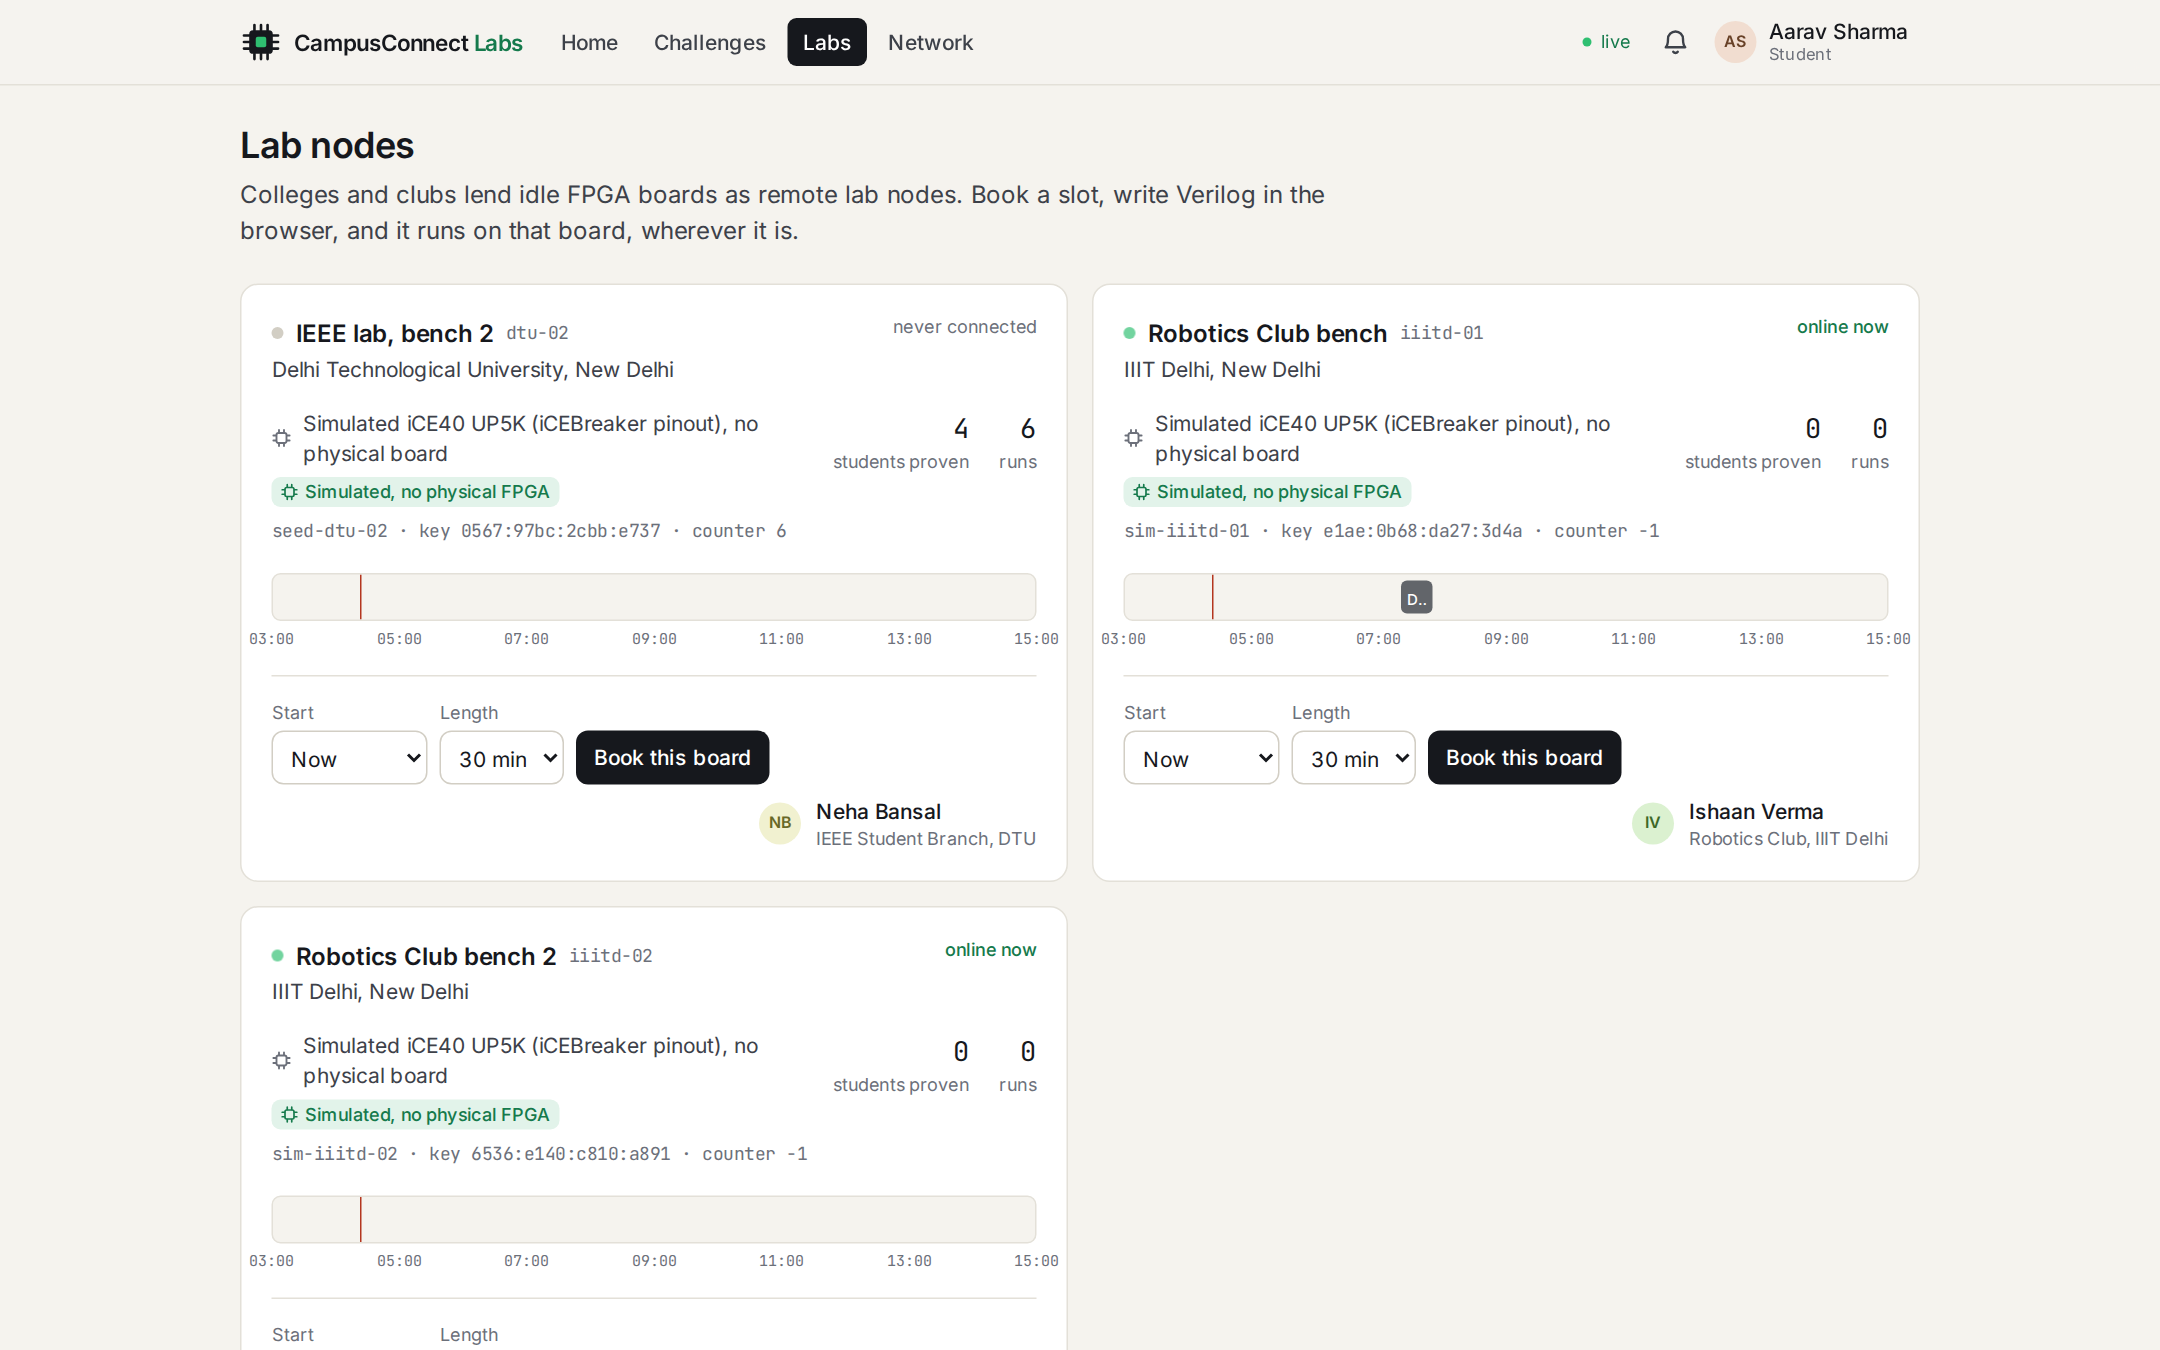
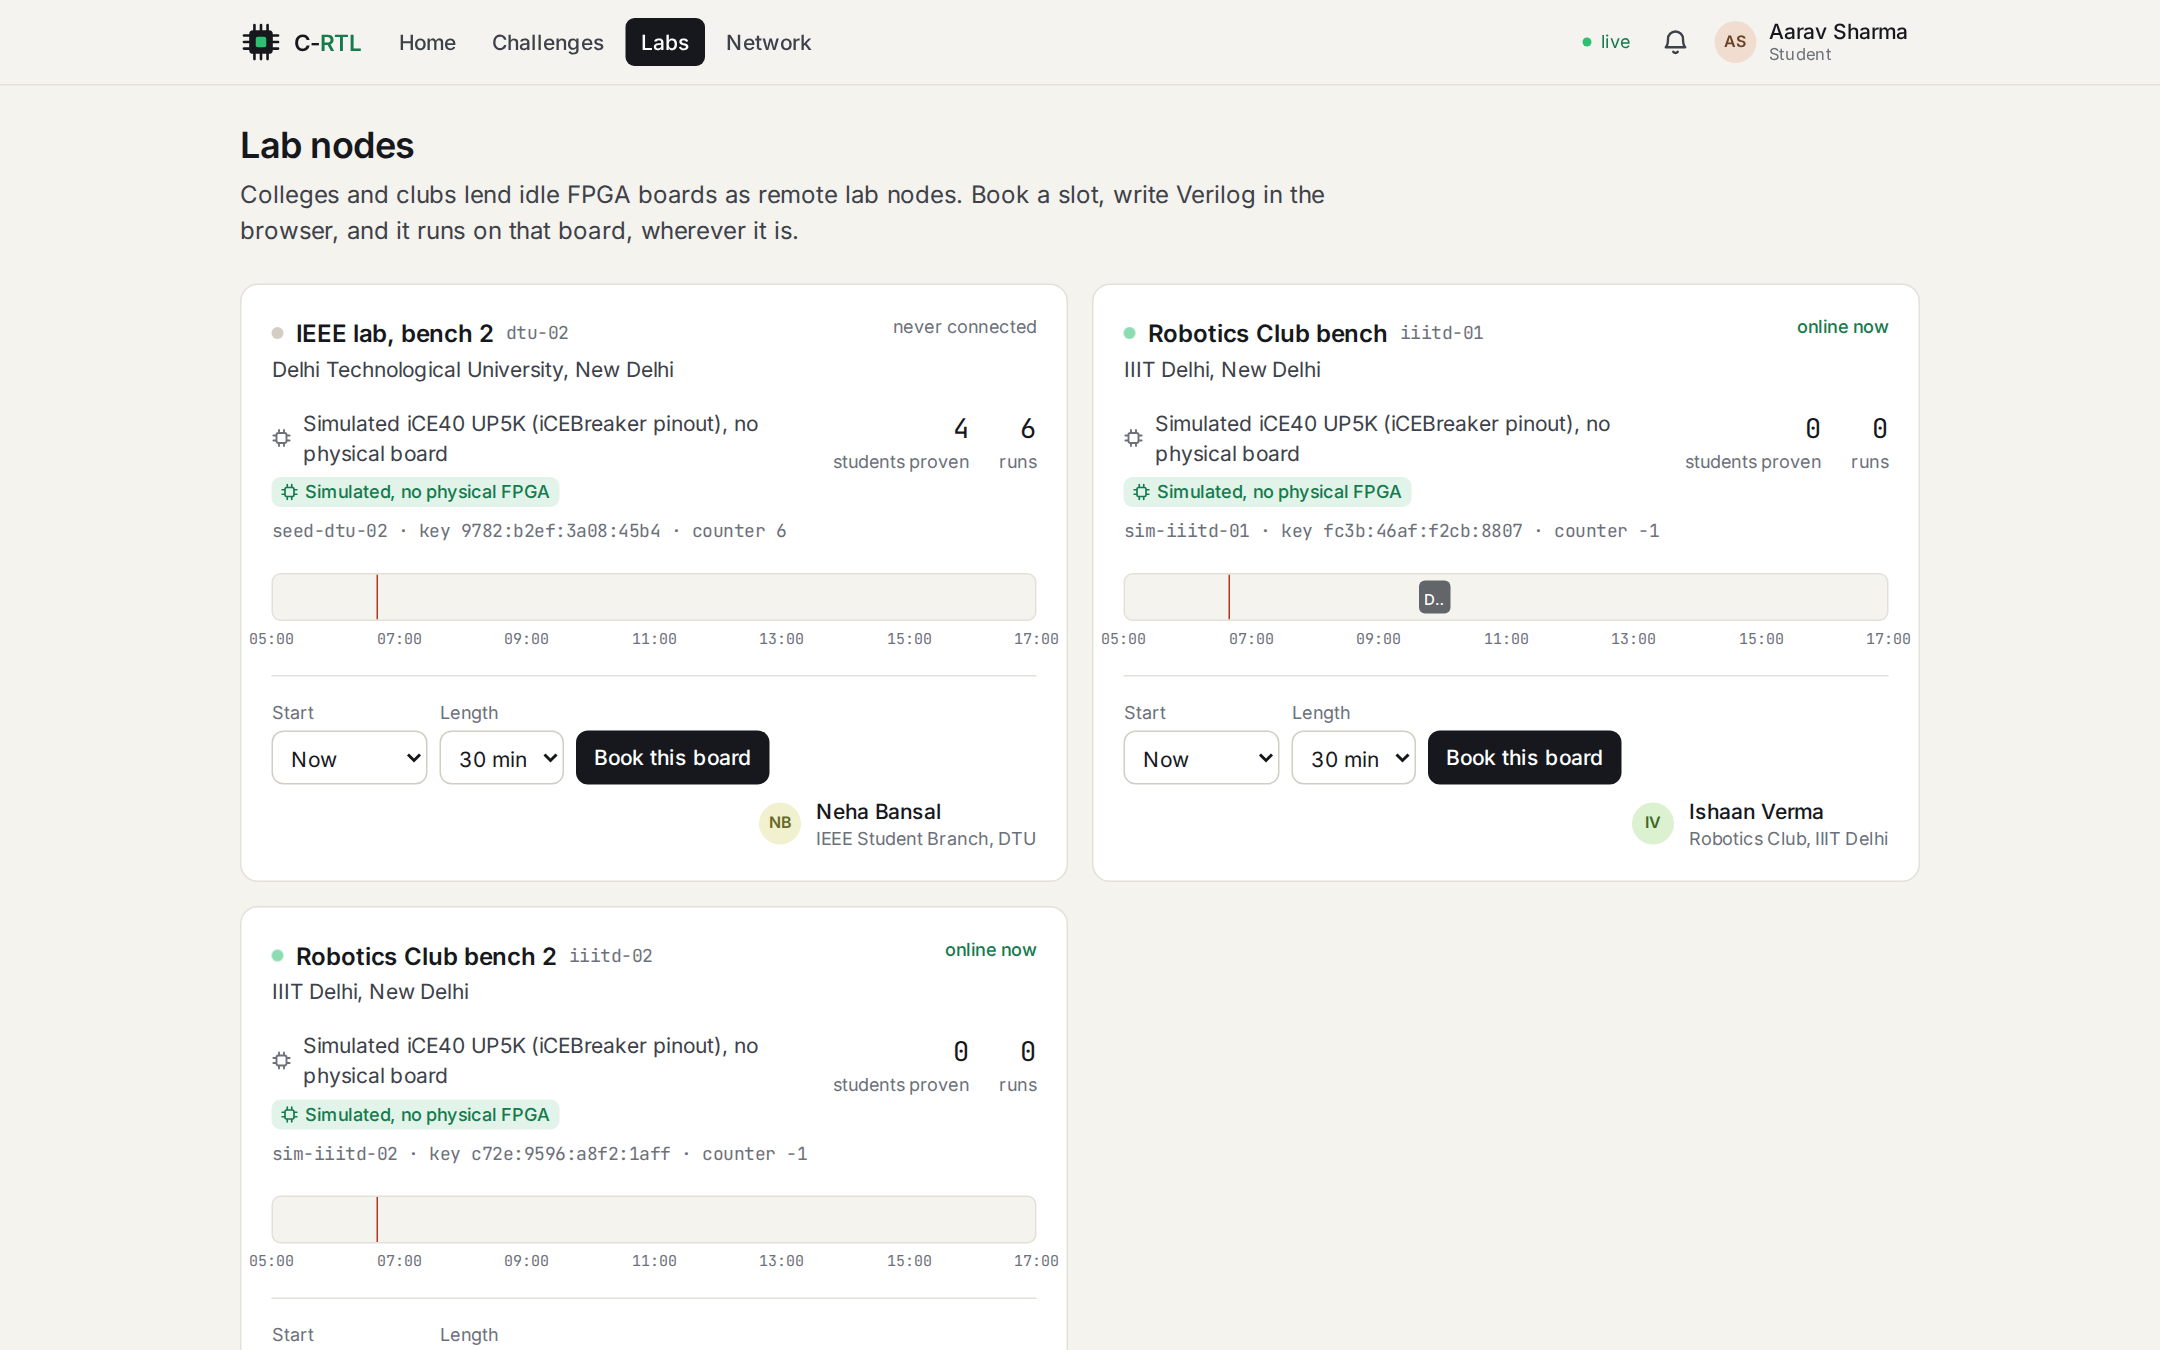
README: rewritten for C-RTL, with fresh screenshots of every stage
The story is the same one attempt from Aarav's skill gap to Meera's
referral, now told under the new name. RTL is explained along with the
other terms, so the name makes sense to someone who has never touched an
FPGA, and the landing page opens the README. Every screenshot was taken
again on the redeployed C-RTL demo.

Claude-Session: https://claude.ai/code/session_0195j1iygwPWiu3DrF1q1Au9

diff --git a/README.md b/README.md
@@ -3,39 +3,43 @@
 **HackShift 2026 · Theme 1: Alumni Network & Professional Connections**
 *Building a network, not a directory.*
 
-A professional network where you connect with people by **proving** a skill, not by listing it. An alum posts a hardware challenge with an offer ("pass this and I'll refer you"). A student whose college has no lab borrows a board from another campus over the internet and passes it. The result comes back signed, like a certificate nobody can forge, and that certificate becomes the connection between the student, the alum, and the club that lent the board.
+C-RTL is a professional network where you connect with people by **proving** a skill, not by listing it. An alum posts a hardware challenge with an offer, like "pass this and I'll refer you". A student whose college has no lab borrows a board from another campus over the internet and passes the challenge. The result comes back signed, like a certificate nobody can forge, and that certificate becomes the connection between the student, the alum and the club that lent the board.
 
-## The problem, for people who have never touched an FPGA
+![The C-RTL landing page: a directory entry with typed skills struck through, next to a connection signed by an examiner](docs/screenshots/01-landing.png)
 
-- Chip designers describe circuits in a language called **Verilog**. It isn't a program that runs step by step; it describes wires and logic gates that all work at the same time.
+## The idea in plain words
+
+You don't need to know anything about chips to follow this.
+
+- **RTL** is what chip designers call the circuit descriptions they write, usually in a language called **Verilog**. It isn't a program that runs step by step. It describes wires and logic gates that all work at the same time.
 - An **FPGA** is a chip that can rewire itself into whatever circuit you described. You load it with a file called a **bitstream**. Engineers use FPGAs to try a design before a factory makes it, and students use them to learn hardware.
-- Code that looks right often fails on a real chip, because real circuits have timing. So hiring managers ask one question: *did you get it working on a board?*
+- Circuit code that looks right often fails on a real chip, because real circuits have timing. So hiring managers ask one question: *did you get it working on a board?*
 - Boards and lab time are concentrated in a few colleges. A student at a college with no lab can't answer that question, so "Verilog" on their résumé is just a word, and every profile looks the same.
 
-**Our fix:** clubs that have boards lend their idle ones as remote **lab nodes**. Next to each board sits a small, separate tester called the **examiner** (an ESP32 microcontroller). It talks to the student's circuit, measures what comes back, and signs the result with a key that never leaves it, like an invigilator signing an answer sheet. The platform only believes signed results, and only signed results create badges and connections.
+**What C-RTL does:** clubs that own boards lend their idle ones as remote **lab nodes**. Next to each board sits a small, separate tester called the **examiner** (an ESP32 microcontroller). It talks to the student's circuit, measures what comes back, and signs the result with a key that never leaves it, like an invigilator signing an answer sheet. The platform only believes signed results, and only signed results create badges and connections.
 
 ```
- student's browser ──Verilog──▶ platform ──job──▶ lab node (a club's laptop + board)
-                                   ▲                  │ builds the circuit, loads it onto the board
-                                   │                  ▼
-            checks the signature ◀─┴── signed result ── examiner (tests the circuit, signs)
+ student's browser ──Verilog──▶ C-RTL platform ──job──▶ lab node (a club's laptop + board)
+                                      ▲                    │ builds the circuit, loads it onto the board
+                                      │                    ▼
+               checks the signature ◀─┴── signed result ── examiner (tests the circuit, signs)
 ```
 
-## The story, stage by stage
+## One attempt, stage by stage
 
-Three people: **Aarav**, a 3rd-year student at a college with no FPGA lab. **Meera**, an alum who now works at a chip company and is hiring. **Ishaan**, who runs the Robotics Club at IIIT Delhi and lends its board.
+There are three people in the story. **Aarav** is a 3rd-year student at a college with no FPGA lab. **Meera** is an alum who now works at a chip company and is hiring. **Ishaan** runs the Robotics Club at IIIT Delhi and lends its board.
 
-These are real screenshots of one run, taken by [a headless browser](tools/readme-shots.mjs) on our deployed demo.
+Every screenshot below comes from one real run on our deployed demo, taken by [a headless browser](tools/readme-shots.mjs).
 
 ### 1. Aarav sees his gap
 
-Aarav wants Meera's *FPGA Design Intern* role. His profile says Verilog, FPGA and Embedded C, but they're struck through: nobody has tested them, so they count for nothing. He has 0 of the 6 skills the role needs. The page suggests challenges that close the gap, and the top one is Meera's, with her offer attached.
+Aarav wants Meera's *FPGA Design Intern* role. His profile says Verilog, FPGA and Embedded C, but those are struck through: nobody has tested them, so they count for nothing. He has 0 of the 6 skills the role needs. The page suggests challenges that close the gap, and the top one is Meera's, with her offer attached.
 
 ![Aarav's home page: 0 of 6 skills proven, his typed claims struck through, and challenges that close the gap](docs/screenshots/02-student-gap.png)
 
 ### 2. Meera's challenge comes with an offer
 
-*"Make this UART work on a real FPGA and I'll refer you to our FPGA prototyping team."* A **UART** is the simplest way two chips talk: bits sent one after another down a wire at an agreed speed (115,200 per second here). The test: the examiner sends a random code made up for this attempt only (a **nonce**), and the circuit must echo it back at the right speed. A fresh code every time means you can't replay someone else's answer.
+*"Make this UART work on a real FPGA and I'll refer you to our FPGA prototyping team."* A **UART** is the simplest way for two chips to talk: bits sent one after another down a wire at an agreed speed, here 115,200 bits a second. The test: the examiner sends a random code made up for this attempt only (a **nonce**), and the circuit has to echo it back at the right speed. A fresh code every time means nobody can replay someone else's answer.
 
 ![The UART challenge: Meera's offer, the spec, and how the examiner tests it](docs/screenshots/03-challenge.png)
 
@@ -43,33 +47,51 @@ Aarav wants Meera's *FPGA Design Intern* role. His profile says Verilog, FPGA an
 
 Clubs list the boards they lend and when they're free. Aarav picks the Robotics Club bench at IIIT Delhi.
 
-![Labs: boards lent by clubs at other colleges, two online now](docs/screenshots/04-labs.png)
+![Lab nodes: boards lent by clubs at other colleges, two of them online now](docs/screenshots/04-labs.png)
 
 ### 4. He books a slot and writes the circuit
 
-He books 30 minutes on the board, writes his Verilog in the browser, and presses **Build & simulate**. The bar on the right tracks the six steps the attempt goes through.
+He books 30 minutes on the board, writes his Verilog in the browser and presses **Build & simulate**. The bar on the right tracks the six steps an attempt goes through.
 
 ![The editor: Verilog on the left, a booked slot and the Build button on the right](docs/screenshots/05-booked.png)
 
 ### 5. The lab node builds it and the examiner tests it
 
-This is the lab node's own dashboard, on the club's machine. In plain words, left to right: check the code, turn it into logic gates (**yosys**), lay those gates out on the chip and wire them (**nextpnr**), pack the result into the bitstream a real board would be loaded with (**icepack**). We have no physical board, so the node turns that same bitstream back into a circuit (**icebox_vlog**) and runs it in a simulator (**iverilog**, **vvp**). The examiner sends the nonce, measures the reply (115,385 bits per second; it must be within 3% of 115,200), and signs **PASS**. The whole attempt takes about 15 to 25 seconds on our demo server.
+This is the lab node's own dashboard, on the club's machine. Each box is a step, in plain words:
 
-![Lab node dashboard: every build stage with its time, the tool output, and the signed PASS](docs/screenshots/10-node-done.png)
+1. Check the code for obvious mistakes.
+2. Turn it into logic gates (**yosys**).
+3. Place those gates on the chip and wire them up (**nextpnr**).
+4. Pack the result into the bitstream a real board would be loaded with (**icepack**).
+5. We have no physical board, so turn that same bitstream back into a circuit (**icebox_vlog**) and run it in a simulator (**iverilog**, **vvp**).
+6. The examiner sends the nonce, measures the reply (115,385 bits a second; it has to be within 3% of 115,200) and signs **PASS**.
+
+The whole attempt takes under half a minute.
+
+![Lab node dashboard: every build step with its time, the tool output, and the signed PASS](docs/screenshots/10-node-done.png)
 
 ### 6. The platform checks the result before it believes it
 
-The platform's live data-flow page shows every request, database write and message as it happens. The club's laptop only carries messages, and the platform runs six checks before writing anything: the signature is valid, the nonce is the one it issued, the node and challenge match, the result says what was tested, the examiner's counter has gone up (an old result can't be replayed), and Aarav really had that board booked. Then it records the proof, the badge, and two connections.
+The platform's live data-flow page shows every request, database write and message as it happens. The club's laptop only carries messages, and the platform runs six checks before writing anything:
+
+- the signature is valid;
+- the nonce is the one the platform issued;
+- the node and challenge match the attempt;
+- the result says what was tested;
+- the examiner's counter has gone up, so an old result can't be replayed;
+- Aarav really had that board booked.
+
+Only then does it record the proof, the badge and two connections.
 
 ![Platform data-flow dashboard: browsers, API, database, WebSocket hub, lab nodes on two machines, and the attempt's timeline](docs/screenshots/11-flow-done.png)
 
 ### 7. Pass: a badge and a connection
 
-Aarav sees every check pass in his console. He now holds the badge, and he's connected to Meera with the proof attached.
+Aarav watches every check pass in his console. He now holds the badge and is connected to Meera, with the proof attached.
 
 ![PASS · verified: every check listed, badge issued, connected to Meera](docs/screenshots/09-attempt-pass.png)
 
-### 8. Meera gets the proof, not a résumé
+### 8. Meera gets a proof, not a résumé
 
 The signed proof lands in Meera's inbox: who did it, on which board, signed by which examiner. She sends the referral she promised.
 
@@ -81,23 +103,25 @@ His UART badge proves six skills, four of them ones the internship needed, and l
 
 ![Aarav's profile: proven skills, struck-through claims, and three connections each backed by an event](docs/screenshots/13-student-profile.png)
 
-### 10. Anyone can check a proof, without trusting us
+### 10. Anyone can check a proof without trusting us
 
-Every proof has a public page showing exactly what the examiner signed. **Verify signature** checks it in your own browser against the examiner's public key. Change one character, or press **Flip the result** to turn the pass into a fail, and the signature stops checking out.
+Every proof has a public page that shows exactly what the examiner signed. **Verify signature** checks it in your own browser against the examiner's public key. Change one character, or press **Flip the result** to turn the pass into a fail, and the signature stops checking out.
 
 <p align="center"><img src="docs/screenshots/14-proof-verified.png" width="80%" alt="Proof page: the signed payload, the six checks, and an in-browser signature check that says Valid"></p>
 
 ### 11. The network is made of things that happened
 
-There are no follow buttons. Every line in the graph is a challenge passed, a board lent, a referral sent or a mentorship started, and every one links to its proof.
+There are no follow buttons. Every line in the graph is a challenge passed, a board lent, a referral sent or a mentorship started, and each one links to its proof.
 
 ![The network graph: proved_for, lent_board, referred and mentored edges, with the latest connections listed](docs/screenshots/15-network.png)
 
-## What's real, and what's simulated
+## What's real and what's simulated
 
-**We don't have an FPGA board**, so every lab node in this build simulates one. It still builds the real iCE40 bitstream a board would be loaded with, then tests a circuit decoded from that bitstream, not the student's source code. Every proof says this inside what was signed (`"target":"bitstream"`) and on its badge: **Simulated, no physical FPGA**. In simulation the examiner is a program on the lab node's laptop and its key is stored there, so a simulated proof is weaker evidence than one from a real examiner chip, and the proof page says so. Nothing is labelled "Verified on silicon".
+**We don't have an FPGA board**, so every lab node in this build simulates one. It still builds the real iCE40 bitstream a board would be loaded with, then tests a circuit decoded from that bitstream rather than the student's source code. Every proof says so inside what was signed (`"target":"bitstream"`) and on its badge: **Simulated, no physical FPGA**.
 
-The examiner firmware runs on a real ESP32-S3 and signs verdicts that verify. It just has no FPGA to be wired to yet. With one plugged in, the lab node loads the board instead of the simulator, and the same pipeline, checks and proof pages apply. Details in [docs/SIMULATION.md](docs/SIMULATION.md).
+In simulation the examiner is a program on the lab node's laptop and its key is stored there, so a simulated proof is weaker evidence than one from a real examiner chip, and the proof page says so. Nothing is labelled "Verified on silicon".
+
+The examiner firmware runs on a real ESP32-S3 and signs verdicts that verify. It just has no FPGA to be wired to yet. With a board plugged in, the lab node loads the board instead of the simulator, and the same pipeline, checks and proof pages apply. Details are in [docs/SIMULATION.md](docs/SIMULATION.md).
 
 ## Try it
 
@@ -105,9 +129,9 @@ The examiner firmware runs on a real ESP32-S3 and signs verdicts that verify. It
 docker compose up -d --build
 ```
 
-Then open http://localhost:4000 and sign in as Aarav or Meera (demo sign-in, no password). The data-flow dashboards are at http://localhost:4000/flow (platform) and http://localhost:4100 (lab node).
+Open http://localhost:4000 and sign in as Aarav or Meera (demo sign-in, no password). The live data-flow dashboards are at http://localhost:4000/flow (platform) and http://localhost:4100 (lab node).
 
-Without Docker, setup, tests and operator commands are in [docs/DEVELOPING.md](docs/DEVELOPING.md). Running a college's lab node on its own machine is in [docs/DEPLOY.md](docs/DEPLOY.md), and the 4-minute stage demo is [docs/DEMO.md](docs/DEMO.md).
+To run without Docker, plus tests and operator commands, see [docs/DEVELOPING.md](docs/DEVELOPING.md). To run a college's lab node on its own machine, see [docs/DEPLOY.md](docs/DEPLOY.md). The 4-minute stage demo is in [docs/DEMO.md](docs/DEMO.md).
 
 ## What's in the repo
 
